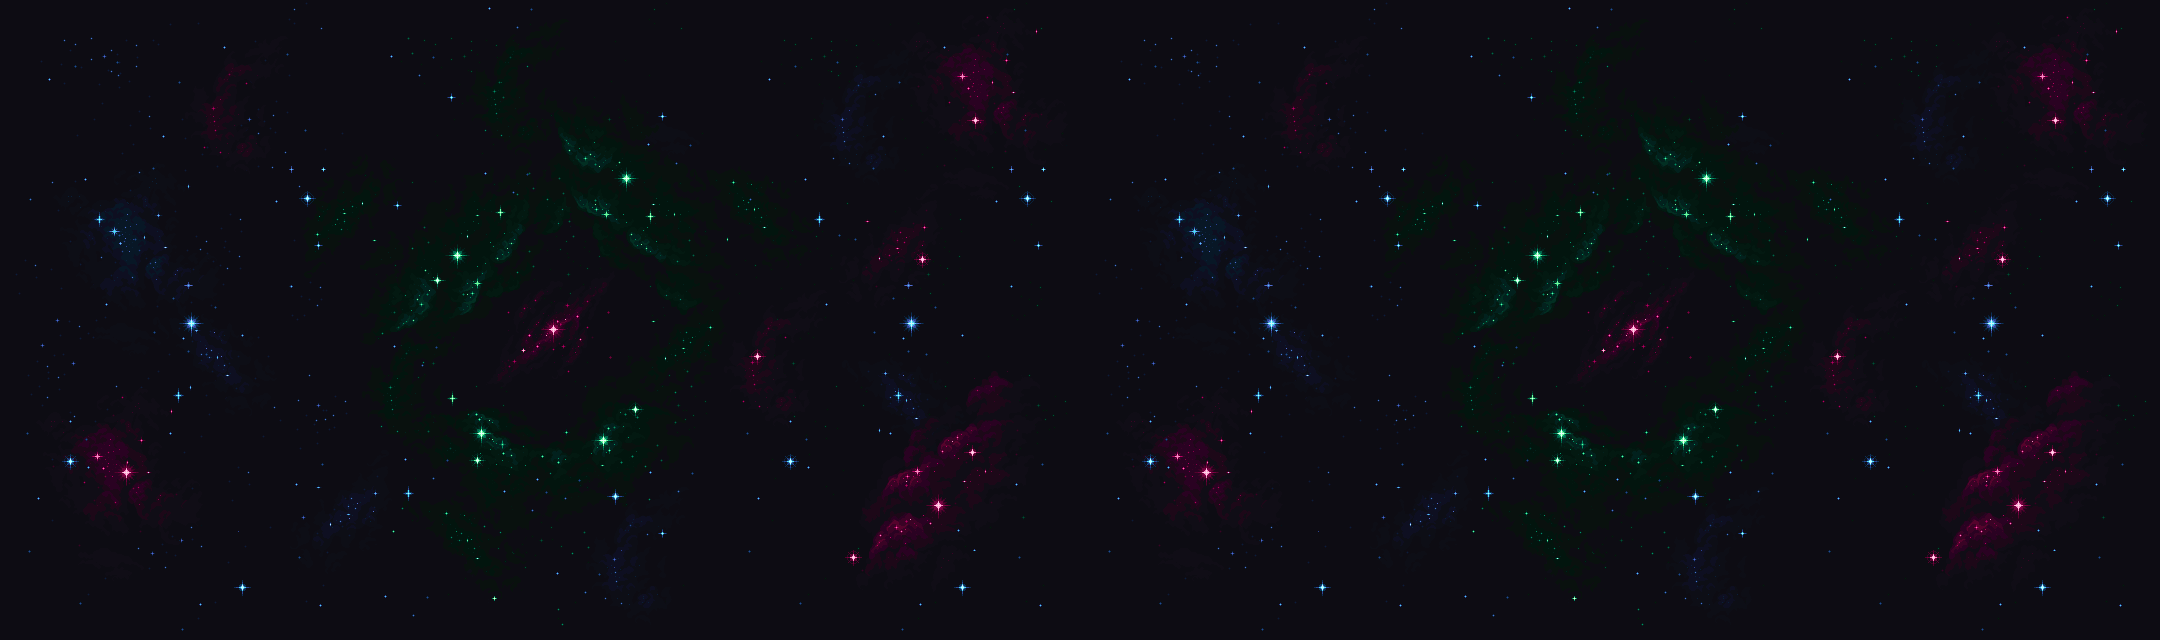
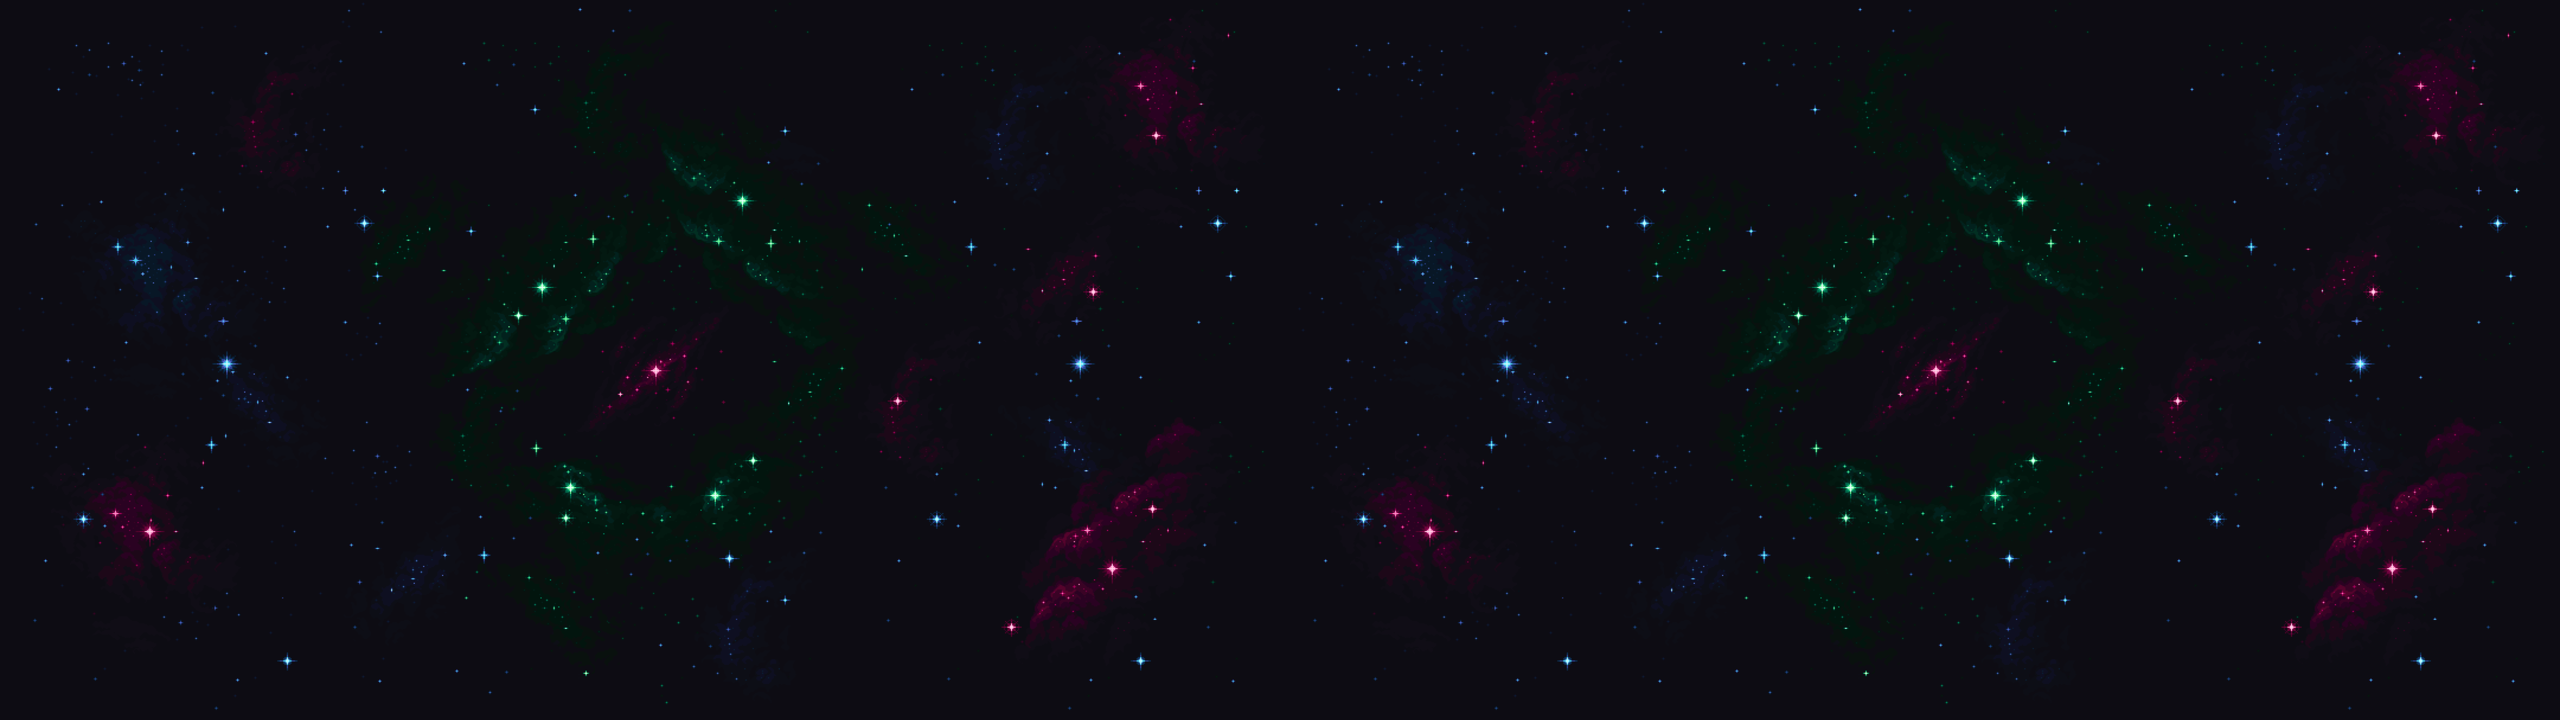
background déroulant

diff --git a/ShootEmUp/Assets.c b/ShootEmUp/Assets.c
@@ -46,6 +46,8 @@ Assets *Assets_New(SDL_Renderer *renderer)
         { &self->layers[0],     "../Assets/Background/bg1.png"                  },
         { &self->layers[1],     "../Assets/Background/bg2.png"                  },
         { &self->layers[2],     "../Assets/Background/bg3.png"                  },
+        { &self->layer1,     "../Assets/Background/bg11.png"                    },
+        { &self->layer2,     "../Assets/Background/bg12.png"                    },
         { &self->playerBullet,  "../Assets/Bullet/bulletp.png"                  },
         { &self->playerBulletGun1,  "../Assets/Bullet/bullet_gun_1.png"         },
         { &self->playerBulletGun2,  "../Assets/Bullet/bullet_gun_2.png"         },
